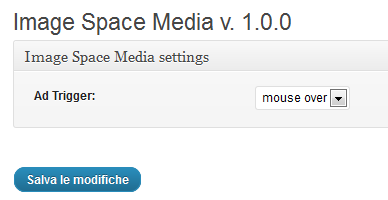
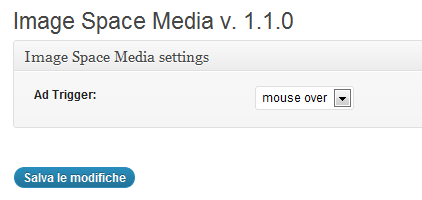
git-svn-id: https://plugins.svn.wordpress.org/image-space-media/trunk@501207 b8457f37-d9ea-0310-8a92-e5e31aec5664

diff --git a/image-space-media.php b/image-space-media.php
@@ -4,7 +4,7 @@
 Plugin Name: Image Space Media
 Plugin URI: http://www.pivari.com/wordpress-plugins/image-space-media-wp-plugin/
 Description: A simple Plugin to add Image Space Media code on your pages.
-Version: 1.0.0
+Version: 1.1.0
 Author: Fabrizio Pivari
 Author URI: http://www.pivari.com
  */
@@ -25,7 +25,7 @@ Author URI: http://www.pivari.com
     Foundation, Inc., 59 Temple Place, Suite 330, Boston, MA  02111-1307  USA
 */
 
-$ismversion="1.0.0";
+$ismversion="1.1.0";
 
 if (!defined('WP_CONTENT_URL'))
       define('WP_CONTENT_URL', get_option('siteurl').'/wp-content');
